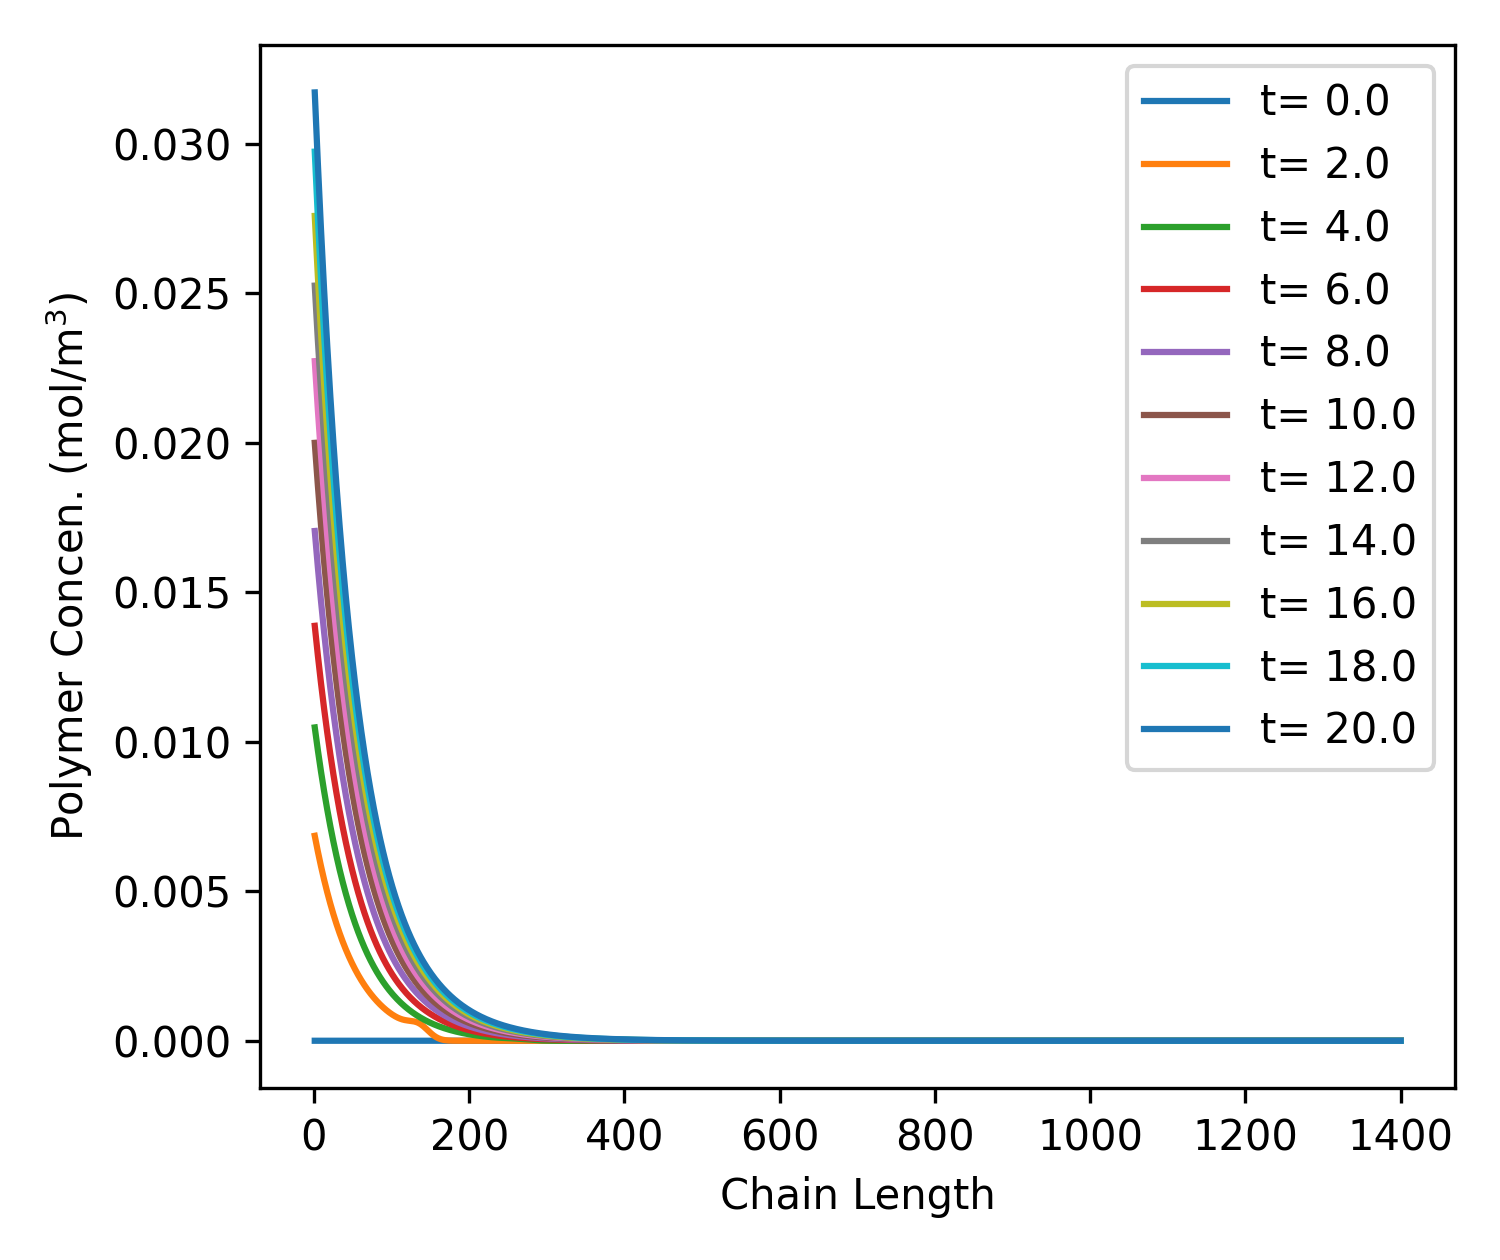
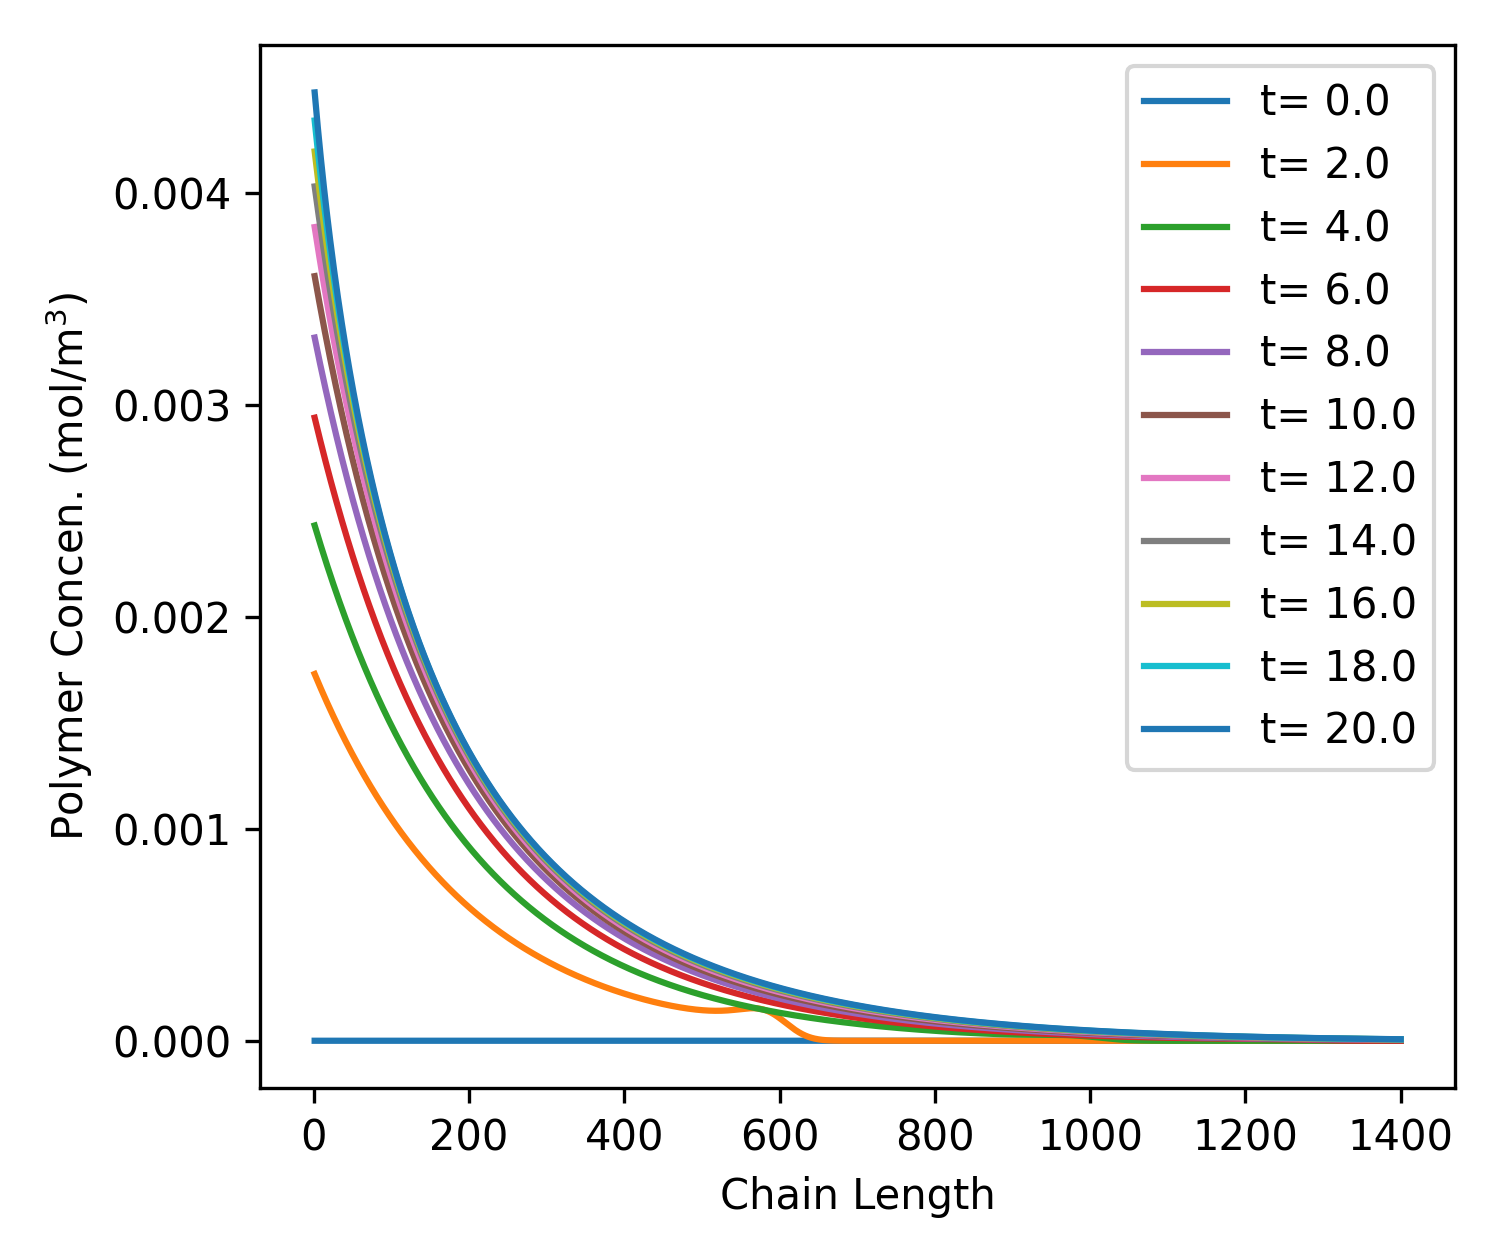
run again

diff --git a/DetailPolymeriation/step4_termination_added_v01.py b/DetailPolymeriation/step4_termination_added_v01.py
@@ -21,7 +21,7 @@ def build_termination_operator(N, k_tc=1.0):
     return sp.csr_matrix((data, (rows, cols)), shape=(N, N * N))
 
 k_d = 1.0E1
-k_p = 5E-1
+k_p = 2E0
 k_trm = 8E-3
 k_trp = 1E-3
 k_tc = 1.0E-3
@@ -73,7 +73,7 @@ def model(y,t):
     return dydt
 
 I0 = 5E-2
-M0 = 150
+M0 = 180
 y0 = np.zeros([2*N_max+2,])
 y0[0] = I0
 y0[1] = M0